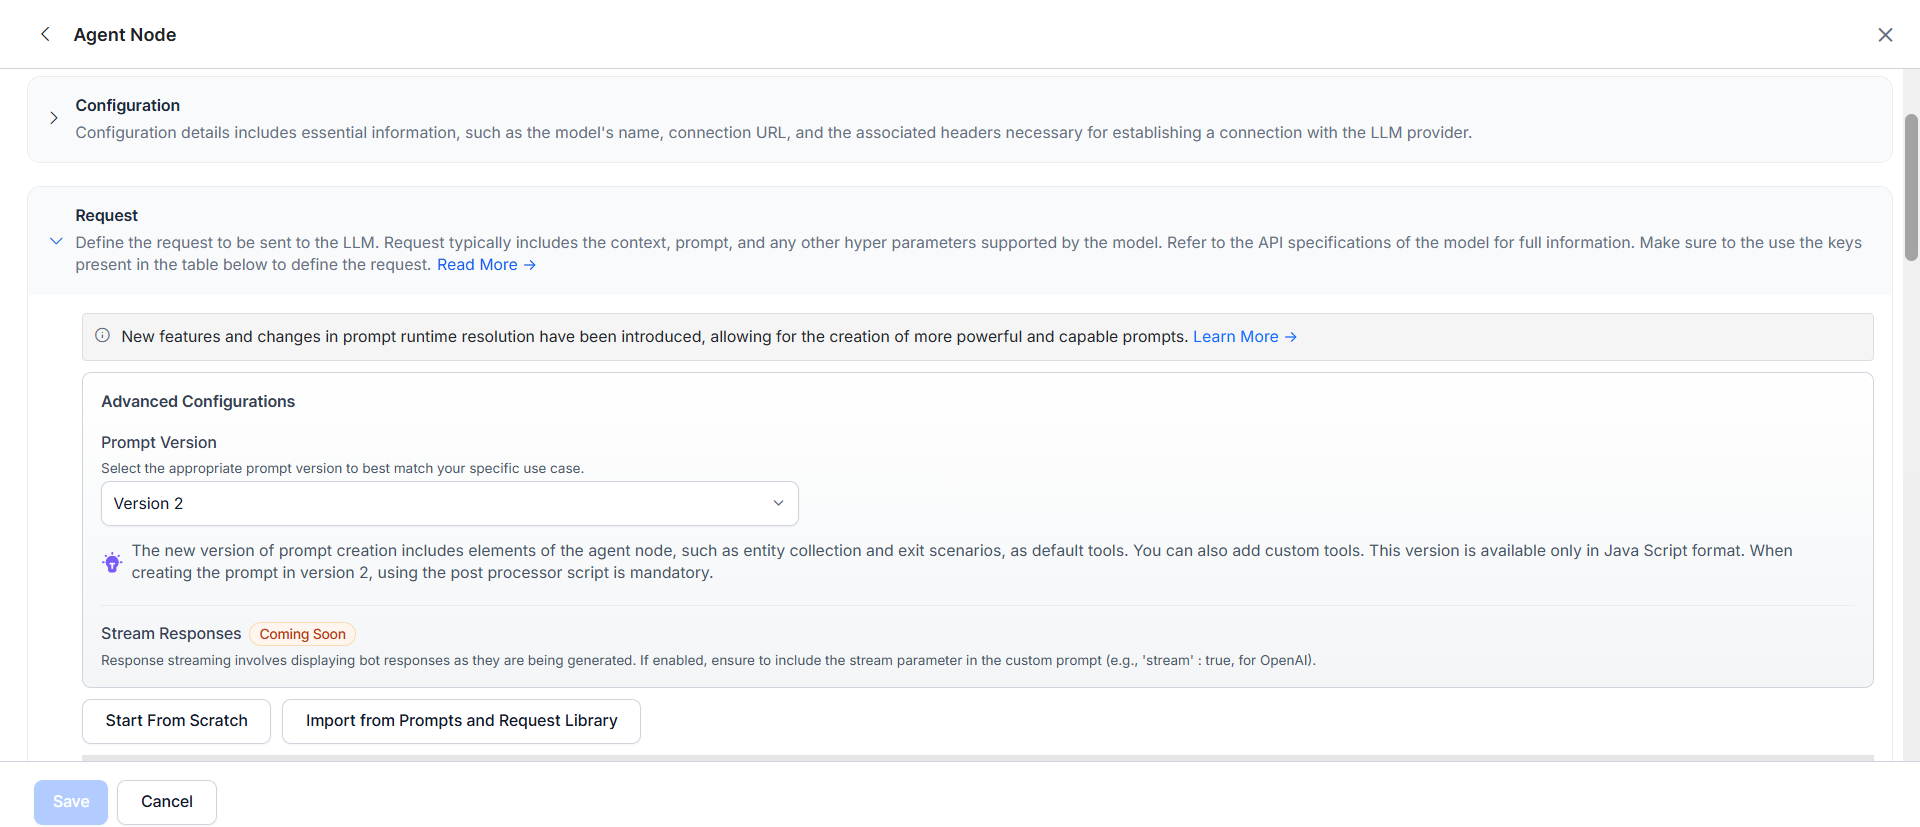
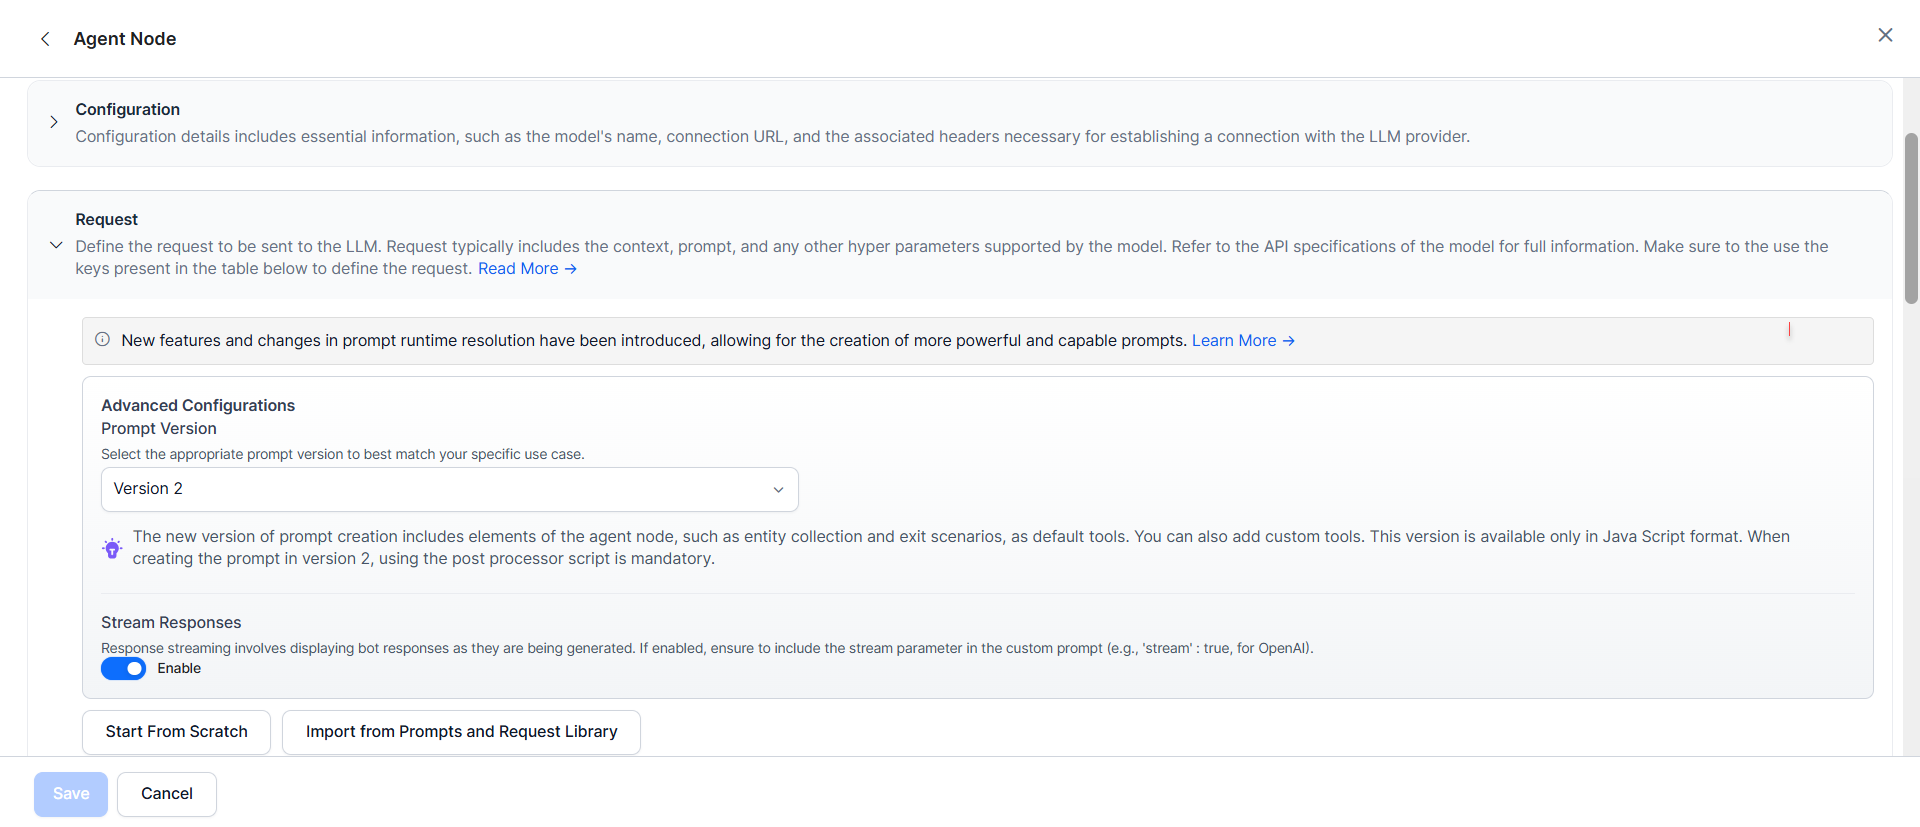
Streaming updates

diff --git a/docs/xo/automation/agent-node/prompt-setup.md b/docs/xo/automation/agent-node/prompt-setup.md
@@ -111,6 +111,10 @@ This design simplifies configuration and improves entity extraction accuracy.
 * **System tool** – Includes predefined functionality such as `End_Orchestration`, which handles the end of the interaction.
 * **Custom tools** – Defined based on specific business requirements.
 
+#### Response Format in Version 2
+
+Response Payload Format control that lets you define the model’s response schema in advance. When you select OpenAI or Azure OpenAI, the platform automatically parses the response, eliminating the need to manually configure the **Text Response Path** and **Tool Call Request**.
+
 ### Use Case Scenarios
 
 For a more practical approach, the differences through scenarios can make the comparison more engaging.
@@ -391,16 +395,15 @@ To add an Agent Node V1 prompt using JavaScript, follow the steps:
 5. In the Request section, in the Advanced Configuration, select Prompt Version 1 from the drop-down list.  
 <img src="../images/v1dropdown.png" alt="Select Prompt" title="Select Prompt Version" style="border: 1px solid gray; zoom:70%;">
 
-6. Ensure the Stream Response is disabled, as the Agent Node supports tool-calling with custom JavaScript prompts in non-streaming mode.
+6. Ensure the Stream Response is disabled,  as the Agent Node V1 custom JavaScript prompt supports tool calling and streaming as separate capabilities, but not simultaneously.
+
+
 7. You can either create a request from scratch or import the existing prompt from the Library to modify as needed. For example, click **Start from Scratch**. [Learn more](#dynamic-variables).  
 <img src="../images/v1toolcall.png" alt="Start from Scratch" title="Start from Scratch" style="border: 1px solid gray; zoom:70%;">
 
 7. Click **JavaScript**. The Switch Mode pop-up is displayed. Click **Continue**.  
 <img src="../images/switch.png" alt="ISwitch Mode" title="Switch Mode" style="border: 1px solid gray; zoom:70%;">
 
-    !!! note
-
-        The Agent Node supports tool-calling with custom JavaScript prompts in non-streaming mode.
     
 8. Enter the **JavaScript**. The Sample Context Values are displayed. To know more about context values, see [Dynamic Variables](#dynamic-variables).  
 <img src="../images/toolcall2.png" alt="Script Preview" title="Script Preview" style="border: 1px solid gray; zoom:70%;">
@@ -435,7 +438,7 @@ To add an Agent Node V1 prompt using JavaScript, follow the steps:
 
         1. On the Post-Processor Script pop-up, enter the Post-Processor Script and click **Save & Test**. The response path keys are updated based on the post-processor script.  
         <img src="../images/postprocessor.png" alt="Post-Processor Script" title="Post-Processor Script" style="border: 1px solid gray; zoom:70%;">     
-        2. The expected LLM response structure is displayed. If the LLM response is not aligned with the expected response structure, the runtime response might be affected. Click **Save**.
+        2. The expected LLM response structure is displayed. If the LLM response isn't aligned with the expected response structure, the runtime response might be affected. Click **Save**.
 
 15. Click **Save**. The request is added and displayed in the **Prompts and Requests Library** section.  
 <img src="../images/v1andv2.png" alt="Prompt Library" title="Prompt Library" style="border: 1px solid gray; zoom:70%;">
@@ -450,16 +453,18 @@ To add an Agent Node V1 prompt using JavaScript, follow the steps:
 #### Add V2 Custom Prompt
 
 For details, see [When to use V2 Prompt.](#version-2-tool-calling-framework)
-To add an Agent Node V2 prompt, follow the steps:
+
+To add an Agent Node V2 streaming prompt, follow the steps:
 
 
 1. Go to **Generative AI Tools** > **Prompts Library** and click **+ New Prompt**.
 2. Enter the **prompt name**. In the **feature** dropdown, select **Agent Node** and select the **model**.
-3. The Configuration section consists of End-point URLs, Authentication, and Header values required to connect to a large language model. These are auto-populated based on the input provided during model integration and are not editable. 
+3. The Configuration section consists of End-point URLs, Authentication, and Header values required to connect to a large language model. These are auto populated based on the input provided during model integration and aren't editable. 
 4. In the Request section, in the Advanced Configuration, select **Prompt Version 2** from the drop-down list. The Switch Version pop-up is displayed. Click **Proceed**.  
 <img src="../images/v2dropdown.png" alt="Select Prompt" title="Select Prompt Version" style="border: 1px solid gray; zoom:70%;">
 
-5. Currently, the Stream Response is not supported for Prompt version 2.
+5. (Optional) toggle the stream responses. By default, the response streaming is disabled. Enabling streaming disables the “Exit Scenario,” “AI Agent Response”, “Collected Entities,” “Tool Call Request,” and "post-processor script."
+
 5. You can either create a Prompt from scratch or import the existing prompt template from the Library to modify as needed. For example, click **Import from Prompts and Requests Library**. The V2 prompt templates are displayed.  
 <img src="../images/v2toolcall.png" alt="Import from Prompts and Requests Library" title="Import from Prompts and Requests Library" style="border: 1px solid gray; zoom:70%;">
 
@@ -479,27 +484,35 @@ To add an Agent Node V2 prompt, follow the steps:
 <img src="../images/valuepopup.png" alt="Preview pop-up" title="Preview pop-up" style="border: 1px solid gray; zoom:70%;">  
 <img src="../images/jsonpreview.png" alt="JSON Preview" title="JSON Preview" style="border: 1px solid gray; zoom:70%;">
 
-10. The Actual Response is displayed.  
-<img src="../images/essentialkeysv2.png" alt="Essential keys" title="Essential keys" style="border: 1px solid gray; zoom:70%;">
+10. The Actual Response is displayed.
 
-11. To edit the Post-Processor Script, click **Modify**. On the Pre-Processor Script pop-up, enter the Script and click **Save & Teat**. The response path keys are updated based on the post-processor script.
-  
-    !!! note
+11. Select the Response format from the dropdown.
 
-        Post-Processor Script is mandatory when using V2 prompt.
+    * If response streaming is enabled, select OpenAI or Azure OpenAI, then click **Save**.  
+    <img src="./images/actual-response.png" alt="Response format" title="Response format" style="border: 1px solid gray; zoom:70%;">
+    * If response streaming is disabled:
 
-12. The expected LLM response structure is displayed. If the LLM response is not aligned with the expected response structure, the runtime response might be affected. Click **Save**.
-13. Enter the **Text Response Path** and **Tool Call Request key**. The tool-call request key in the LLM response payload enables the Platform to execute the tool-calling functionality.
-14. Click **Test**. The Key Mapping pop-up appears.
+      * Select OpenAI or Azure OpenAI, then click **Save**.
+      * If you select Custom, enter the **Text Response Path** and **Tool Call Request key**. The tool-call request key in the LLM response payload enables the Platform to execute the tool-calling functionality. Click **Modify** to edit the Post-Processor Script. The expected LLM response structure is displayed. If the LLM response is not aligned with the expected response structure, the runtime response might be affected. Click **Save**.  <img src="./images/custom-response-format.png" alt="Response format" title="Response format" style="border: 1px solid gray; zoom:70%;">
+
+12. (Optional) If you have enabled Token Usage Limits for your Custom Model, map the Request Tokens key and Response Tokens key for accurate token tracking and Analytics. Without proper mapping, the Platform can't calculate token consumption, potentially leading to untracked usage and unexpected costs.
+    * Request Tokens key: `usage.input_tokens`
+    * Response Tokens key: `usage.output_tokens`  
+    <img src="../images/token-mapping.png" alt="token mapping" title="token mapping" style="border: 1px solid gray; zoom:70%;">
+
+13. Click **Test**. The Key Mapping pop-up appears.
     * If all the key mapping is correct, close the pop-up and go to step 15.  
     <img src="../images/keymappingright.png" alt="Key Mapping" title="Key Mapping" style="border: 1px solid gray; zoom:70%;">
     * If the key mapping, actual response, and expected response structures are mismatched, click **Configure** to write the post-processor script.  
     <img src="../images/v2key-map.png" alt="Key Mapping" title="Key Mapping" style="border: 1px solid gray; zoom:70%;">
-15. Click **Save**. The request is added and displayed in the **Prompts and Requests Library** section.  
-<img src="../images/v1andv2.png" alt="Prompt Library" title="Prompt Library" style="border: 1px solid gray; zoom:70%;">
 
-16. Go to the Agent Node in the dialog. Select the Model and Custom Prompt for the tooling calling.  
-<img src="../images/selectv2.png" alt="Custom Prompt" title="Custom Prompt" style="border: 1px solid gray; zoom:70%;">
+
+
+15. Click **Save**. The request is added and displayed in the **Prompts and Requests Library** section.  
+<img src="../images/v1andv2new.png" alt="Prompt Library" title="Prompt Library" style="border: 1px solid gray; zoom:70%;">
+
+16. Go to the Agent Node in the dialog. Select the Model and Custom Prompt for the tool calling.  
+<img src="../images/selectv2new.png" alt="Custom Prompt" title="Custom Prompt" style="border: 1px solid gray; zoom:70%;">
 
 
 ### Expected Output Structure

diff --git a/docs/xo/automation/agent-node/working-with-agent-node.md b/docs/xo/automation/agent-node/working-with-agent-node.md
@@ -11,6 +11,8 @@ The **Agent Node** lets you leverage LLMs and generative AI with Tool calling to
 * **Multilingual Support**: The Agent Node supports both English and non-English AI Agent languages, enabling platform users to create AI Agents that cater to a diverse user base and facilitate multilingual interactions.
 * **Configuration Flexibility**: The Agent Node can be configured like any other node in the Platform, providing flexibility in its integration within dialog tasks. This allows platform users to seamlessly incorporate the Agent Node into their existing conversational flows.
 * **Tool Calling**: Tool calling is the ability to identify when external functions are needed, select appropriate ones, invoke them with correct parameters, process their outputs, and incorporate the results into responses.
+* **Tool Calling with Streaming Responses**: Tool calling with streaming, allowing the model to generate responses progressively for faster, more fluid user interactions.
+* **Simplified V2 Prompt Setup**: The Custom Prompt page now features a Response Payload Format control (OpenAI, Azure OpenAI, or Custom) for automatic parsing, eliminating the need for manual Post-Processor setup in streaming configurations.
 
 ## Quick Start Guide
 
@@ -25,7 +27,7 @@ The Agent Node supports variants of LLM, including OpenAI, Azure OpenAI, Amazon 
 
 #### Prompt Setup
 
-To learn more, see [Agen Node Prompt Setup](prompt-setup.md).
+To learn more, see [Agent Node Prompt Setup](prompt-setup.md).
 
 
 
@@ -40,7 +42,7 @@ Add the node to a dialog task and configure the node's properties and tool calli
 Steps to add an Agent Node to a Dialog Task:
 
 1. Go to **Automation** > **Dialogs** and select the task that you are working with. 
-2. You can add the **Agent Node** just like any other node. You can find it in the main list of nodes.  
+2. You can add the **Agent Node** like any other node. You can find it in the main list of nodes.  
 <img src="../images/canvas-agentnode.png" alt="image_tooltip" title="image_tooltip" style="border: 1px solid gray; zoom:70%;">
 
 
@@ -100,9 +102,11 @@ Add a brief description of the use case context to guide the model.
 
 Tools allow the Agent Node to interact with external services, fetching or posting data as needed. When called, they let language models perform tasks or obtain information by executing actions linked to Script, Service, or Search AI nodes. Users can add a maximum of 5 tools to each node.
 
-!!! note
+!!! Note Agent Node Tool Calling and Streaming Support
 
-    The Agent Node supports tool-calling with custom JavaScript prompts in non-streaming mode.
+    * V1 Custom JavaScript Prompts: Supports tool calling and streaming as separate capabilities, but not simultaneously.
+    * V2 Custom JavaScript Prompts: Supports both tool calling and streaming together using OpenAI/Azure OpenAI response format.
+
 
 Click **+ Add** to open the **New Tool** creation window.  
 
@@ -279,7 +283,12 @@ Tool calling is the ability to identify when external functions are needed, sele
 
 * **Interaction with External Systems**: The introduction of tool calling expands the Agent Node's capabilities beyond text generation. It enables interaction with external systems and databases, facilitating real-time data retrieval, calculations, and system-specific operations. This integration allows for more dynamic and data-driven conversational experiences.
 * **Dynamic Prompt Enhancement**: The Agent Node's prompt is enhanced to include tool definitions and contextual information. Based on user input and ongoing conversation, the language model can dynamically decide whether to generate text or call a tool. The dynamic prompt adaptation ensures that the AI Agent provides the most appropriate response or action at each step of the interaction.
+* **Tool Calling with Streaming Responses**: The Agent Node supports tool calling with streaming, allowing the model to generate responses progressively for faster, more fluid user interactions. The Agent Node supports both tool calling and prompt streaming in custom JavaScript V2 prompts using the OpenAI or Azure OpenAI response format.
 
+!!! Note Agent Node Tool Calling and Streaming Support
+
+    * V1 Custom JavaScript Prompts: Supports tool calling and streaming as separate capabilities, but not simultaneously.
+    * V2 Custom JavaScript Prompts: Supports both tool calling and streaming together using OpenAI/Azure OpenAI response format.
 
 ## Agent Node Execution
 
@@ -327,7 +336,7 @@ Here's a step-by-step explanation of the execution captured in the debug logs:
 4. The Agent Node is initiated (`Agent node initiated`).
 5. The Agent Node Request Response Details are captured in JSON format and contain the conversation history up to this point.
 6. The tool execution (`FundsTransfer`) is initiated. This indicates that the AI Agent has determined that the tool needs to be called based on the user's request.
-7. The AI Agent checks if the person (Raj Kumar) is already registered as a payee in the user's account. To verify this, it calls the `PayeesAvailableCheck` tool.
+7. The AI Agent checks if the person (John Doe) is already registered as a payee in the user's account. To verify this, it calls the `PayeesAvailableCheck` tool.
 8. The `PayeesAvailableCheck` tool completes execution, and the result is captured in the debug logs. The AI Agent determines that the person is registered as a payee.
 9. The AI Agent informs the user that the person is registered as a payee and requests additional details to proceed with the fund transfer. It asks the user to select the transfer type (NEFT/IMPS/RTGS), provide the transfer amount, and confirm their account ID.
 10. The user provides the requested information.

diff --git a/docs/xo/generative-ai-tools/streaming-responses.md b/docs/xo/generative-ai-tools/streaming-responses.md
@@ -8,7 +8,10 @@ The Platform support the voice-based channel [Voice Gateway](../channels/voice-g
 
 The Platform delivers real-time LLM response streaming for chat conversations on [Web/Mobile SDK](../sdk/bot-sdk-introduction.md) Channels. Agent Node and Prompt Node deliver AI responses token by token, showing incremental replies to boost engagement and reduce latency. Text streaming activates when a streaming prompt is selected at the node level, even if the feature-level prompt doesn't use streaming.
 
-The streaming capability is available only for [V1 prompts](../automation/agent-node/prompt-setup.md) in Agent Nodes and doesn't support tool calling.
+!!! Note Agent Node Tool Calling and Streaming Support
+
+    * V1 Custom JavaScript Prompts: Supports tool calling and streaming as separate capabilities, but not simultaneously.
+    * V2 Custom JavaScript Prompts: Supports both tool calling and streaming together using OpenAI/Azure OpenAI response format.
 
 
 ### Benefits of Streaming

diff --git a/docs/xo/flows/node-types/automation.md b/docs/xo/flows/node-types/automation.md
@@ -71,7 +71,7 @@ Select how you want to handle user conversations based on your business needs an
 This feature allows users to engage in two-way voice streaming through the **Voice Gateway**, enhancing automation with AI models.
 When real-time voice interaction is enabled, Kore Voice Gateway uses the underlying models configured in Agent Platform to add voice capabilities to the application. You can also enable Real-time Voice Interactions later from the Agent Platform. 
 
-* **TTS Streaming**: TTS Streaming sends LLM responses to TTS for real-time audio playback, supporting only Deepgram TTS and ElevenLabs TTS.
+* **TTS Streaming**: TTS Streaming sends LLM responses to TTS for real-time audio playback, supporting only Deepgram TTS and ElevenLabs TTS.  
 <img src="../images/full-autonomy-options.png" alt="Full Autonomy" title="Full Autonomy" style="border: 1px solid gray; zoom:70%;">
 
 ### Connection Rules

diff --git a/docs/xo/generative-ai-tools/prompts-library.md b/docs/xo/generative-ai-tools/prompts-library.md
@@ -42,7 +42,7 @@ Streaming prompts deliver responses incrementally as the model generates them, a
 | Exit Scenarios | Supported | Not supported |
 | AI Agent Response | Supported | Not supported |
 | Collected Entities | Supported | Must be included in streamed format |
-| Tool Call Requests | Supported | Not supported for Agent Node |
+| Tool Call Requests | Supported | Supported |
 | Post-Processing | Available | Not available |
 | Guardrails | Supported | Not supported |
 
